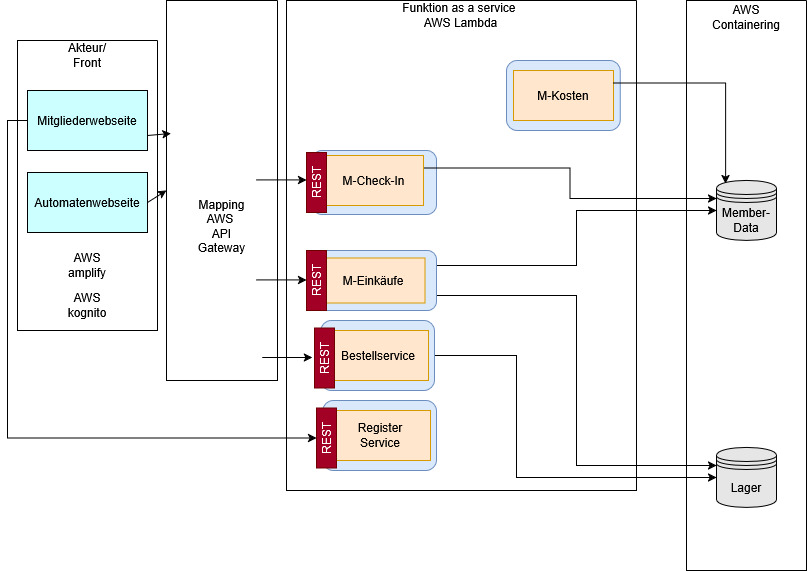
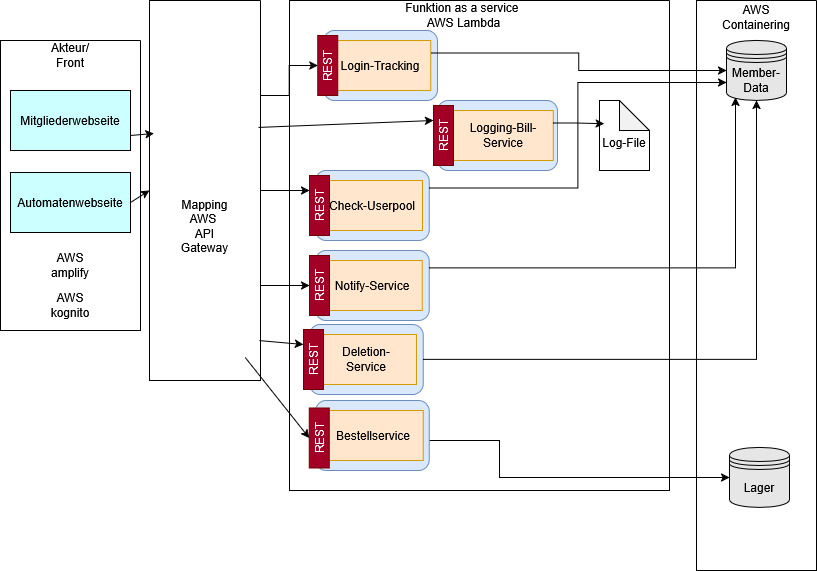
Funktionale Anforderungen angepasst und Skizze aktualisiert #58

diff --git a/Wiki/Spezifikationen.md b/Wiki/Spezifikationen.md
@@ -3,8 +3,11 @@
 ## Funktionale Anforderungen
 - Als Nutzer möchte ich mich über eine Weboberfläche sicher registrieren und einloggen können (AWS Cognito)
 - Als Nutzer möchte ich was kaufen können (Snacks, Getränke, etc.)
-- ..............
-- ..............
+- Als Nutzer möchte ich meine Daten jederzeit ändern können
+- Als Nutzer möchte ich meine Mitgliedschaft kündigen können
+- Als Admin möchte ich meine Gesamteinnahmen sehen
+- Als Admin möchte ich Nutzer Benachrichtigen können (Events, Erinnerungen)
+- Als Admin möchte ich einen automatisierten Bestellservice am Snackautomaten
 
 ## Schnittstellen (Frontend zu AWS Services)
 - Frontend <-> API Gateway: Kommunikation erfolgt über RESTful HTTPS-Requests. Alle Anfragen sind mit dem Cognito-JWT im Header signiert.
